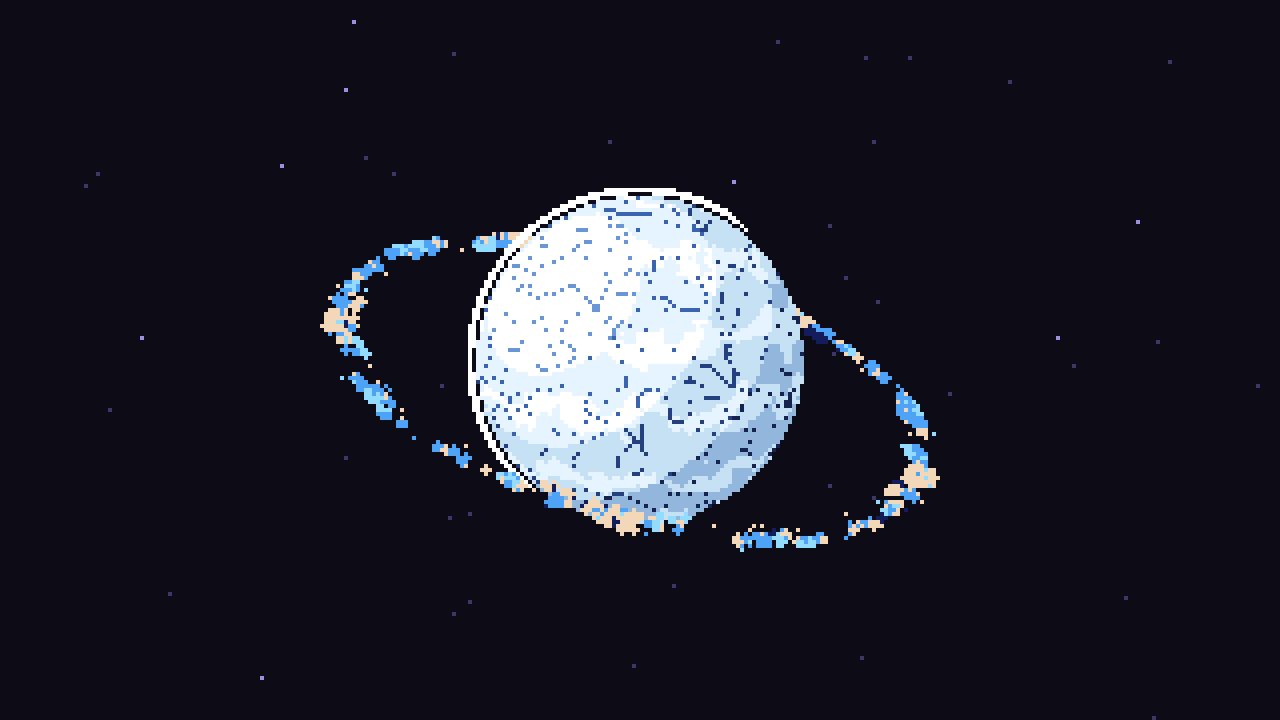
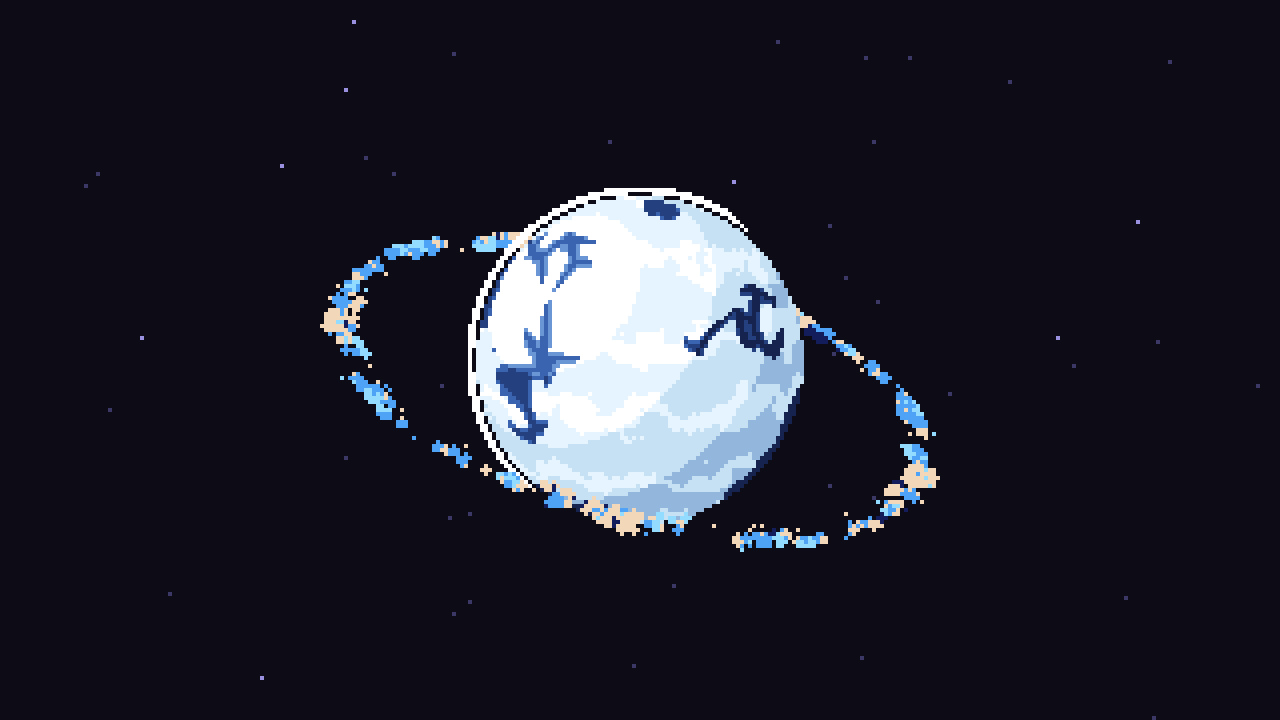
feat(mockup): bold jagged lava fissures and ice crevasses
The old ridged-noise lines were ~1 px and broke into dots (16-62% isolated
pixels). Cracks are now Voronoi cell edges (exact edge distance, straight
segments, pointed junctions), masked so they branch and taper to ~1 px tips.
Width is in screen px from derivatives (lava up to ~3 px with bright core and
dark edges, ice ~2.4 px with a deeper-blue core); small planets show fewer
cracks rather than solid fissure. The cell hash is an integer pcg3d, bit-exact
on the CPU: snoise.js ports voronoiEdge/crackMask (parity test), and lava ash
is placed on the new fissures. Median width at 180p: 1 -> 4-5 px (lava), 1 -> 3-4
px (ice). test/line-width.test.mjs guards median >= 2 px, no speckle, non-empty.
Adds screenshots/lava-ice-before-after.png; variety sheet and shots re-rendered.

diff --git a/mockups/asset-viewer/viewer.js b/mockups/asset-viewer/viewer.js
@@ -9,7 +9,7 @@ import { LOSPEC, LOSPEC_ORDER, SPARES } from './palettes.js';
 import { mapPalette, mapColors, snapToPool } from './palette-map.js';
 import { V2_PLANET_RAMPS, RESEARCH_RAMPS, PLANET_DEPTH, ACCENTS } from './planet-ramps.js';
 import { tangentFrame } from './cloud-frame.js';
-import { ridge } from './snoise.js';
+import { voronoiEdge, crackMask } from './snoise.js';
 import { ARTEFACTS_GLSL, MAX_ART, ART_TICKS, artefactSectors } from './artefacts.js';
 
 THREE.ColorManagement.enabled = false; // palette hexes go to the screen untouched
@@ -309,6 +309,48 @@ const CLOUD_FRAG = /* glsl */ `
   }
 `;
 
+// Cell hash, Voronoi edge distance and the crack mask, shared by the planet shader and the CPU
+// port (snoise.js voronoiEdge / crackMask) that places lava ash on the fissures.
+const CRACKS = { lava: { freq: 3.2, cut: 0.25 }, ice: { freq: 3.8, cut: 0.32 } };
+const WORLEY_GLSL = /* glsl */ `
+  vec3 hash33(vec3 p) { p = fract(p * vec3(0.1031, 0.1030, 0.0973)); p += dot(p, p.yxz + 33.33); return fract((p.xxy + p.yxx) * p.zyx); }
+  // Integer cell hash (pcg3d), bit-exact on the CPU, unlike the float hash33 (whose large
+  // fract() arguments differ by GPU rounding). Cells are offset to stay non-negative.
+  uvec3 pcg3d(uvec3 v) {
+    v = v * 1664525u + 1013904223u;
+    v.x += v.y * v.z; v.y += v.z * v.x; v.z += v.x * v.y;
+    v ^= v >> 16u;
+    v.x += v.y * v.z; v.y += v.z * v.x; v.z += v.x * v.y;
+    return v;
+  }
+  vec3 cellHash(vec3 c) { return vec3(pcg3d(uvec3(ivec3(c) + 4096))) * (1.0 / 4294967296.0); }
+  // Distance to the nearest Voronoi cell edge (the bisector plane between the nearest feature
+  // and each neighbour; Quilez's two-pass method). Exact, so cracks have even width and
+  // sharp corners instead of blobs at the junctions.
+  float voronoiEdge(vec3 p) {
+    vec3 i = floor(p), f = fract(p);
+    vec3 r1 = vec3(0.0), c1 = vec3(0.0);
+    float d1 = 9.0;
+    for (int z = -1; z <= 1; z++) for (int y = -1; y <= 1; y++) for (int x = -1; x <= 1; x++) {
+      vec3 g = vec3(x, y, z);
+      vec3 r = g + cellHash(i + g) - f;
+      float dd = dot(r, r);
+      if (dd < d1) { d1 = dd; r1 = r; c1 = g; }
+    }
+    float e = 9.0;
+    for (int z = -2; z <= 2; z++) for (int y = -2; y <= 2; y++) for (int x = -2; x <= 2; x++) {
+      vec3 g = c1 + vec3(x, y, z);
+      vec3 r = g + cellHash(i + g) - f;
+      vec3 dr = r - r1;
+      if (dot(dr, dr) > 1e-5) e = min(e, dot(0.5 * (r1 + r), normalize(dr)));
+    }
+    return e;
+  }
+  float crackMask(vec3 p, float freq, vec3 off) { return snoise(p * freq * 0.35 + off.yzx) * 0.5 + 0.5; }
+  const float LAVA_CRACK_FREQ = ${CRACKS.lava.freq.toFixed(2)}, LAVA_CRACK_CUT = ${CRACKS.lava.cut.toFixed(2)};
+  const float ICE_CRACK_FREQ = ${CRACKS.ice.freq.toFixed(2)}, ICE_CRACK_CUT = ${CRACKS.ice.cut.toFixed(2)};
+`;
+
 // Biome surfaces (art-direction: biome = module health). All flat light bands from
 // palette ramps; lava fissures (and toxic veins) are emissive and ignore lighting.
 // uA/uB/uC are 5-entry ramps and uG a 3-entry glow ramp, re-keyed per biome (BIOMES).
@@ -323,11 +365,14 @@ const PLANET_FRAG = /* glsl */ `
   uniform vec3 uG[3];
   uniform vec3 uSeedOff;
   uniform float uSea;
+  uniform mat4 modelMatrix;      // three sets these per program; the fragment stage reads them
+  uniform mat4 projectionMatrix; // for the planet's screen size (cracks, artefacts)
+  uniform vec2 uViewSize;        // drawing-buffer size in px
   in vec3 vNormalW;
   in vec3 vLocal;
   in vec3 vPosW;
 
-  vec3 hash33(vec3 p) { p = fract(p * vec3(0.1031, 0.1030, 0.0973)); p += dot(p, p.yxz + 33.33); return fract((p.xxy + p.yxx) * p.zyx); }
+  ${WORLEY_GLSL}
   // Worley F1 distance plus a random id for the nearest cell.
   vec2 worley(vec3 p) {
     vec3 i = floor(p), f = fract(p);
@@ -341,6 +386,32 @@ const PLANET_FRAG = /* glsl */ `
     return vec2(sqrt(d), id);
   }
   float ridge(vec3 p) { return 1.0 - abs(snoise(p)); } // 1.0 along a network of thin lines
+
+  // Screen scale, set once per fragment in main() (uniform control flow) and read by surface():
+  // gPx = sphere units per screen pixel here, gRadiusPx = the planet's radius in screen px.
+  float gPx = 0.01, gRadiusPx = 60.0;
+  void setScreenScale(vec3 p) {
+    vec3 dx = dFdx(p), dy = dFdy(p);
+    gPx = max(1e-5, max(length(dx), length(dy))); // the foreshortened axis: lines never swell at the limb
+    vec4 centreV = viewMatrix * modelMatrix * vec4(0.0, 0.0, 0.0, 1.0);
+    gRadiusPx = length(modelMatrix[0].xyz) * projectionMatrix[1][1] / -centreV.z * uViewSize.y * 0.5;
+  }
+  // Jagged cracks (lava fissures, ice crevasses): Voronoi cell edges, i.e. straight segments
+  // meeting at pointed junctions. A mask (crackMask) picks which edges show and how wide, so
+  // cracks branch and taper; below ~1 px a crack simply ends, so tips never break into dots.
+  // Width is in SCREEN px (halfPx at the widest), so lines stay bold at any size; small
+  // planets raise the mask cut instead, so they show fewer cracks rather than solid fissure.
+  // Returns half-width minus the pixel's distance to the edge, in px (> 0 inside), and in
+  // core how central the pixel is (0 centre .. 1 edge).
+  float crack(vec3 p, float freq, vec3 off, float cut, float halfPx, out float core) {
+    float small = 1.0 - clamp((gRadiusPx - 18.0) / 50.0, 0.0, 1.0); // 1 for tiny planets, 0 from ~70 px radius
+    float w = halfPx * smoothstep(cut + small * 0.35, cut + small * 0.35 + 0.25, crackMask(p, freq, off));
+    core = 1.0;
+    if (w < 0.55) return -1.0;
+    float dpx = voronoiEdge(p * freq + off) / (freq * gPx); // px to the cell edge
+    core = dpx / w;
+    return w - dpx;
+  }
 
   // Craters: sparse cells get a dark floor and a bright rim.
   vec3 craters(vec3 p, vec3 c, int b, float scale, float density) {
@@ -369,11 +440,12 @@ const PLANET_FRAG = /* glsl */ `
         if (lat > 0.9) c = uC[b];
       }
     } else if (uBiome == 2) {
-      // ice: bright strata and a network of crevasses
+      // ice: bright strata and a network of jagged crevasses (deeper blue at the core)
       float h = fbm(p * 2.3 + uSeedOff);
       float strata = sin((p.y * 5.0 + h * 2.4) * 3.14159);
       c = uA[min(b + 1 + (strata > 0.55 ? 1 : 0), 4)];
-      if (ridge(p * 2.6 + uSeedOff) > 0.972 || ridge(p * 6.0 + uSeedOff.yzx) > 0.982) c = uB[min(b, 4)];
+      float core;
+      if (crack(p, ICE_CRACK_FREQ, uSeedOff.yzx, ICE_CRACK_CUT, 1.2, core) > 0.0) c = core < 0.5 ? uB[max(b - 1, 0)] : uB[min(b, 4)];
     } else if (uBiome == 3 || uBiome == 6) {
       // desert dunes / barren moon, both cratered
       float h = fbm(p * 2.0 + uSeedOff);
@@ -386,10 +458,9 @@ const PLANET_FRAG = /* glsl */ `
       // lava: dark crust, emissive fissures
       float h = fbm(p * 2.4 + uSeedOff);
       c = uA[min(b, 2) + (h > 0.58 ? 1 : 0)]; // crust stays in the darkest steps
-      float f = max(ridge(p * 2.0 + uSeedOff), ridge(p * 4.6 + uSeedOff.zxy) * 0.988);
-      if (f > 0.978) c = uG[2];
-      else if (f > 0.958) c = uG[1];
-      else if (f > 0.935) c = uG[0];
+      // emissive jagged fissures: bright core, darker glowing edges
+      float core;
+      if (crack(p, LAVA_CRACK_FREQ, uSeedOff, LAVA_CRACK_CUT, 1.5, core) > 0.0) c = core < 0.4 ? uG[2] : core < 0.75 ? uG[1] : uG[0];
     } else {
       // gas giant: turbulent alternating bands and a storm
       float t = fbm(p * vec3(1.4, 0.45, 1.4) + uSeedOff);
@@ -406,6 +477,7 @@ const PLANET_FRAG = /* glsl */ `
   ${ARTEFACTS_GLSL}
   void main() {
     vec3 p = normalize(vLocal);
+    setScreenScale(p);
     int b = band(normalize(vNormalW));
     gl_FragColor = vec4(artefacts(p, b, surface(p, b)), 1.0);
     bool glow = uBiome == 4 && (gl_FragColor.rgb == uG[0] || gl_FragColor.rgb == uG[1] || gl_FragColor.rgb == uG[2]);
@@ -445,6 +517,7 @@ const SHADOW_FRAG = PLANET_FRAG.replace(/void main\(\) \{[\s\S]*\}\s*$/, `in vec
   void main() {
     if (vReach < 0.0 || vReach > 0.1) discard; // straddling-triangle residue of culled vertices; near the terminator shadows would smear across the disc
     vec3 p = normalize(vLocal);
+    setScreenScale(p);
     int b = band(normalize(vHitW));
     if (b == 0) discard; // the night side is already the darkest step
     gl_FragColor = vec4(depthFade(surface(p, b - 1), vPosW, 1.0), 1.0);
@@ -801,11 +874,17 @@ function makePlanet() {
       // Raw weather density per site, then a threshold at the (1 - share) quantile.
       let raw;
       if (weather.fissure) {
-        // the surface shader's fissure field (PLANET_FRAG lava branch), plus a patch field so only some fissures smoke
+        // the surface shader's fissures (PLANET_FRAG lava branch: crackMask + voronoiEdge), plus a
+        // patch field so only some fissures smoke. Sites off the visible cracks never qualify.
         const o = surfaceMat.uniforms.uSeedOff.value;
+        const { freq, cut } = CRACKS.lava;
         const patch = makeFbm3(seed * 23 + 3);
-        raw = dirs.map((d) => Math.max(ridge(d.x * 2 + o.x, d.y * 2 + o.y, d.z * 2 + o.z), ridge(d.x * 4.6 + o.z, d.y * 4.6 + o.x, d.z * 4.6 + o.y) * 0.988)
-          + (patch(d.x * 1.6, d.y * 1.6, d.z * 1.6) - 0.5) * 0.25);
+        raw = dirs.map((d) => {
+          const m = THREE.MathUtils.smoothstep(crackMask(d.x, d.y, d.z, freq, o.x, o.y, o.z), cut, cut + 0.25);
+          if (m < 0.4) return -1; // the shader draws no crack here
+          const edge = voronoiEdge(d.x * freq + o.x, d.y * freq + o.y, d.z * freq + o.z) / freq; // sphere units to the crack
+          return 1 - edge * 8 + (patch(d.x * 1.6, d.y * 1.6, d.z * 1.6) - 0.5) * 0.25;
+        });
       } else {
         const massField = makeFbm3(seed * 31 + 5);
         const streakField = makeFbm3(seed * 17 + 9);

diff --git a/mockups/asset-viewer/snoise.js b/mockups/asset-viewer/snoise.js
@@ -45,3 +45,42 @@ export function snoise(vx, vy, vz) {
 
 /** 1.0 along a network of thin lines, as the shader's `ridge`. */
 export const ridge = (x, y, z) => 1 - Math.abs(snoise(x, y, z));
+
+// CPU port of the shader's integer cell hash, Voronoi edge distance and crack mask
+// (WORLEY_GLSL in viewer.js), so lava ash can sit on the jagged fissures. pcg3d is integer
+// maths, so it is bit-exact; the float steps round to float32 like the GPU.
+const U = (x) => x >>> 0;
+function pcg3d(x, y, z) {
+  x = U(Math.imul(x, 1664525) + 1013904223); y = U(Math.imul(y, 1664525) + 1013904223); z = U(Math.imul(z, 1664525) + 1013904223);
+  x = U(x + Math.imul(y, z)); y = U(y + Math.imul(z, x)); z = U(z + Math.imul(x, y));
+  x = U(x ^ (x >>> 16)); y = U(y ^ (y >>> 16)); z = U(z ^ (z >>> 16));
+  x = U(x + Math.imul(y, z)); y = U(y + Math.imul(z, x)); z = U(z + Math.imul(x, y));
+  return [x, y, z];
+}
+const INV32 = f(1 / 4294967296);
+export const cellHash = (x, y, z) => pcg3d(x + 4096, y + 4096, z + 4096).map((v) => f(f(v) * INV32));
+
+/** Distance to the nearest Voronoi cell edge (the shader's voronoiEdge, two-pass). */
+export function voronoiEdge(px, py, pz) {
+  const ix = Math.floor(px), iy = Math.floor(py), iz = Math.floor(pz);
+  const fx = px - ix, fy = py - iy, fz = pz - iz;
+  let d1 = 9, r1 = [0, 0, 0], c1 = [0, 0, 0];
+  for (let z = -1; z <= 1; z++) for (let y = -1; y <= 1; y++) for (let x = -1; x <= 1; x++) {
+    const h = cellHash(ix + x, iy + y, iz + z);
+    const r = [x + h[0] - fx, y + h[1] - fy, z + h[2] - fz];
+    const dd = r[0] * r[0] + r[1] * r[1] + r[2] * r[2];
+    if (dd < d1) { d1 = dd; r1 = r; c1 = [x, y, z]; }
+  }
+  let e = 9;
+  for (let z = -2; z <= 2; z++) for (let y = -2; y <= 2; y++) for (let x = -2; x <= 2; x++) {
+    const g = [c1[0] + x, c1[1] + y, c1[2] + z];
+    const h = cellHash(ix + g[0], iy + g[1], iz + g[2]);
+    const dr = [g[0] + h[0] - fx - r1[0], g[1] + h[1] - fy - r1[1], g[2] + h[2] - fz - r1[2]];
+    const len = Math.hypot(...dr);
+    if (len * len > 1e-5) e = Math.min(e, ((r1[0] + dr[0] / 2) * dr[0] + (r1[1] + dr[1] / 2) * dr[1] + (r1[2] + dr[2] / 2) * dr[2]) / len);
+  }
+  return e;
+}
+
+/** The shader's crackMask: which crack edges show, and how wide (0..1). */
+export const crackMask = (x, y, z, freq, ox, oy, oz) => snoise(x * freq * 0.35 + oy, y * freq * 0.35 + oz, z * freq * 0.35 + ox) * 0.5 + 0.5;

diff --git a/mockups/asset-viewer/artefacts.js b/mockups/asset-viewer/artefacts.js
@@ -49,17 +49,14 @@ export function artefactSectors(rnd, count) {
   });
 }
 
-// Needs surface(p, band), uBiome and the light-band uniforms from PLANET_FRAG, plus
-// three's modelMatrix / projectionMatrix (declared here; the renderer sets them per program).
+// Needs surface(p, band), uBiome, the light-band uniforms, modelMatrix / projectionMatrix,
+// uViewSize and gRadiusPx (the planet's radius in screen px) from PLANET_FRAG.
 export const ARTEFACTS_GLSL = /* glsl */ `
-  uniform mat4 modelMatrix;
-  uniform mat4 projectionMatrix;
   uniform int uArtN;            // 0 = off: artefacts() returns c untouched
   uniform int uArtTick;         // 0..ART_TICKS * surfaceTurns - 1, loop-locked
   uniform int uArtTeal;
   uniform vec3 uArtTealC;
   uniform vec4 uArtSec[${MAX_ART}]; // xyz = centre direction (planet frame), w = size in cells
-  uniform vec2 uViewSize;       // drawing-buffer size in px
   const int BUGS[10] = int[10](${BUGS.map((n) => mask(GLYPHS[n])).join(', ')});
   const int PLUS = ${mask(GLYPHS.plus)};
   float ah(vec2 q) { return fract(sin(dot(q, vec2(127.1, 311.7))) * 43758.5453); }
@@ -75,8 +72,7 @@ export const ARTEFACTS_GLSL = /* glsl */ `
     vec2 fp = vec2(gl_FragCoord.x, uViewSize.y - gl_FragCoord.y); // px, top-down
     float k = max(1.0, floor(uViewSize.y / 180.0 + 0.5)); // glyph pixel scale: 1 at 180p, 2 at 360p
     float cellPx = 6.0 * k;
-    vec4 centreV = viewMatrix * modelMatrix * vec4(0.0, 0.0, 0.0, 1.0);
-    float radiusPx = length(modelMatrix[0].xyz) * projectionMatrix[1][1] / -centreV.z * uViewSize.y * 0.5;
+    float radiusPx = gRadiusPx;
     int lo = max(b - 1, 0), hi = min(b + 1, 3);
     for (int i = 0; i < ${MAX_ART}; i++) {
       if (i >= uArtN) break;

diff --git a/mockups/asset-viewer/README.md b/mockups/asset-viewer/README.md
@@ -12,7 +12,7 @@ npm run dev      # http://127.0.0.1:5180/  (loopback only; PORT=... to change)
 npm run shots    # re-capture screenshots/ in headless Chromium (no server, no network)
 npm run palettes # 25 Lospec-palette renders + labelled contact sheet in screenshots/palettes/
 npm run planets  # variety sheet, system shot, hero-loop.gif, artefacts-loop.gif, cloud-drift-24s/36s.gif, colour counts + loop-seam tests
-npm test         # cloud regression tests: puff handedness (det > 0), hollow-ring renders (32 framings + 12 hero-loop frames; LOOP_FRAMES=48 for all), shading direction (follows the mass dome), CPU/GPU simplex parity; artefacts: off = pixel-identical, on = visible, deterministic, loop-locked; cloud shadow: no phantoms, drifts with the clouds; depth: object mode unchanged, pixel-stepped splits a straddling planet
+npm test         # cloud regression tests: puff handedness (det > 0), hollow-ring renders (32 framings + 12 hero-loop frames; LOOP_FRAMES=48 for all), shading direction (follows the mass dome), CPU/GPU simplex parity; artefacts: off = pixel-identical, on = visible, deterministic, loop-locked; cloud shadow: no phantoms, drifts with the clouds; depth: object mode unchanged, pixel-stepped splits a straddling planet; lava/ice line width ≥ 2 px
 ```
 
 `node shots.mjs depth-scene crew-closeup` captures just the named shots.
@@ -114,15 +114,17 @@ Each biome is a branch of one planet shader. Its ramps are re-keyed per biome (`
 |---|---|---|---|
 | lush | healthy, tested, active | sea + land + polar caps | cloud masses and streaks |
 | ocean | stable, rarely touched | blue "water" ramp, sea level ~0.7, so only a few islands | thin, small clouds + lit-limb haze |
-| ice | stable, rarely touched | white strata with networks of blue crevasses (ridged noise) | pale haze |
+| ice | stable, rarely touched | white strata with jagged, crystalline blue crevasses (deeper blue at the core) | pale haze |
 | desert | stale, low coverage | wind-dune bands and sparse Worley craters (dark floor, bright rim) | none (no clouds) |
-| lava | churn / bugfix hotspot | dark crust from the palette's darkest ~45%; emissive fissures that ignore lighting | ash/smoke puffs |
+| lava | churn / bugfix hotspot | dark crust from the palette's darkest ~45%; jagged emissive fissures (bright core, darker glowing edges) that ignore lighting | ash/smoke puffs |
 | ringed | shared lib, many dependents | any base + a wide two-lane ring | the ring |
 | gas giant *(extra)* | very large modules | turbulent alternating bands + a storm | — |
 | barren moon *(extra)* | tiny / dead modules | grey, densely cratered | — |
 | toxic *(extra)* | overgrown / risky | dark sludge sea with glowing veins, acid-lime land, fungal blooms | spore puffs + lime haze |
 
-The haze is a 1.06× shell drawn only as a thin crescent on the lit limb, so it reads as atmosphere rather than an outline. Ash and spore puffs reuse the cloud system with their own ramp, cover and lift. Lava ash reads the surface shader's own fissure field on the CPU (`snoise.js`, a float32-exact port of the GLSL simplex noise; `npm test` checks it against the GPU), so smoke only rises from the glowing fissures of a few active regions, as short, flat plumes trailing east.
+The haze is a 1.06× shell drawn only as a thin crescent on the lit limb, so it reads as atmosphere rather than an outline. Ash and spore puffs reuse the cloud system with their own ramp, cover and lift. Lava ash reads the surface shader's own fissure field on the CPU (`snoise.js`: ports of the GLSL simplex noise, the integer cell hash and the Voronoi edge distance; `npm test` checks them against the GPU), so smoke only rises from the glowing fissures of a few active regions, as short, flat plumes trailing east.
+
+**Fissures and crevasses** (`crack()` in the planet shader, `CRACKS` for frequency and mask cut): Voronoi cell edges, i.e. straight segments that meet at pointed junctions, using the exact distance to the cell edge. A low-frequency mask picks which edges show and how wide, so cracks branch and taper to ~1 px tips, then stop rather than breaking into dots. Width is in **screen pixels** (lava up to ~3 px, ice ~2.4 px), worked out from the fragment's screen derivatives, so lines stay bold at any size; small planets raise the mask cut, so they show fewer cracks rather than solid fissure. Median line width at 180p (`node debug/measure-line-width.mjs`, guarded by `npm test`) went from 1 px (16–27% isolated pixels on lava, 50–62% on ice) to 4–5 px on lava and 3–4 px on ice, with ≤ 1.5% isolated pixels.
 
 ### Measured cloud cover
 
@@ -190,6 +192,7 @@ Every tile is the same shot: the `depth` view (crew in front, hero planet, then 
 | `screenshots/faces-sheet.png` | All 10 V2 eye designs on the same head close-up |
 | `screenshots/astronaut-before-after.png` | Crew before (rev 2: ASCII faces, longer limbs) vs after (V2 eyes, chibi), made once with ffmpeg |
 | `screenshots/depth-scene.png` | Planet and astronaut copies at all four depth steps, fade on |
+| `screenshots/lava-ice-before-after.png` | Lava and ice at S/M/L (variety-sheet tiles): thin ridged lines before (top) vs jagged screen-width cracks after (bottom) |
 | `screenshots/depth-mode-compare.png` | Depth scene and a planet straddling the 12-unit threshold, `object` vs `pixel-stepped` |
 | `screenshots/depth-scene-off.png` | Same scene, fade off, for comparison |
 | `screenshots/pixel-120.png` | Chunkier pixels: 213×120 ×6 |
